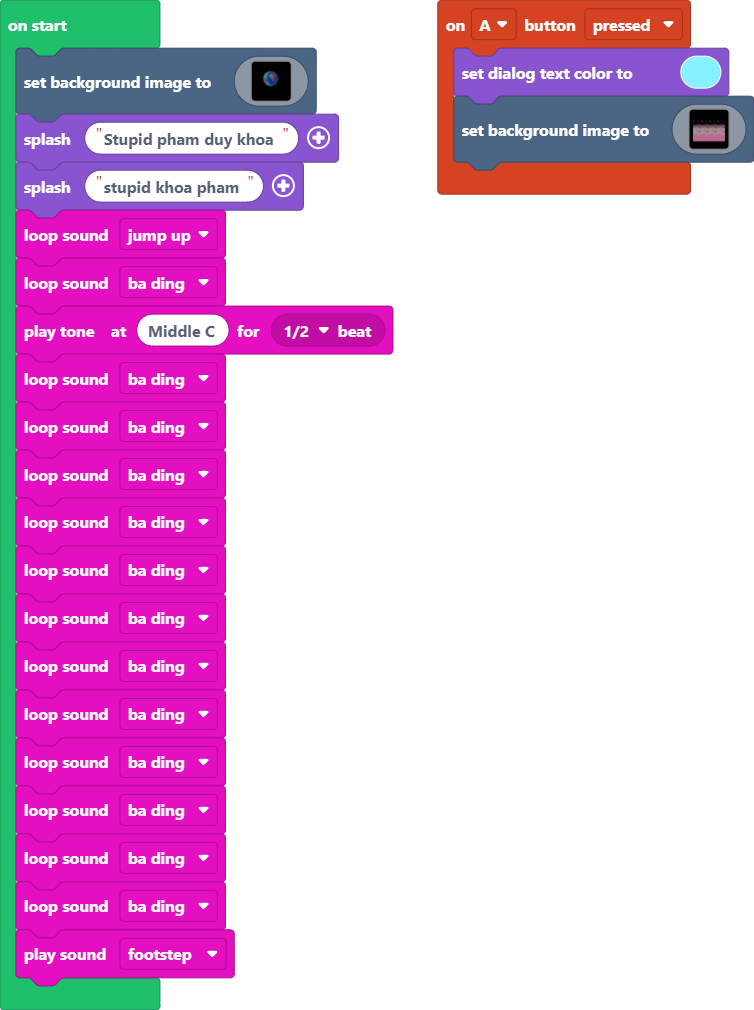
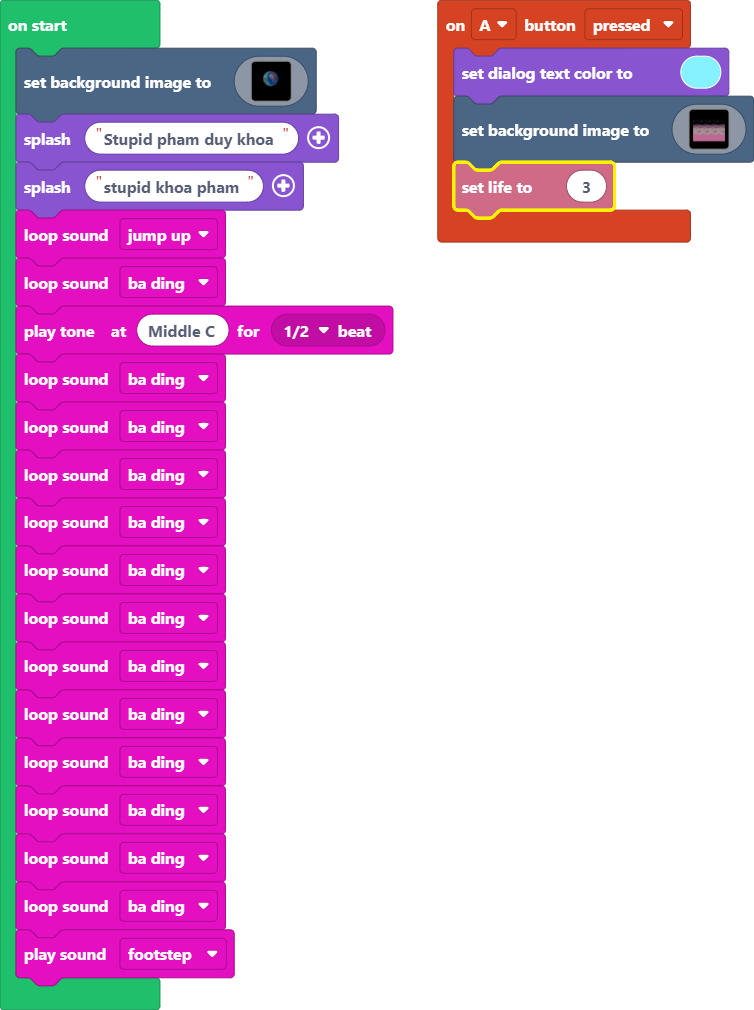
a

Changed region(s): [[0.5796, 0.1535, 0.9151, 0.2455]]

diff --git a/main.ts b/main.ts
@@ -122,6 +122,7 @@ controller.A.onEvent(ControllerButtonEvent.Pressed, function () {
         3333333333333333333333333333333333333333333333333333333333333333333333333333333333333333333333333333333333333333333333333333333333333333333333333333333333333333
         3333333333333333333333333333333333333333333333333333333333333333333333333333333333333333333333333333333333333333333333333333333333333333333333333333333333333333
         `)
+    info.setLife(3)
 })
 scene.setBackgroundImage(img`
     ffffffffffffffffffffffffffffffffffffffffffffffffffffffffffffffffffffffffffffffffffffffffffffffffffffffffffffffffffffffffffffffffffffffffffffffffffffffffffffffff
